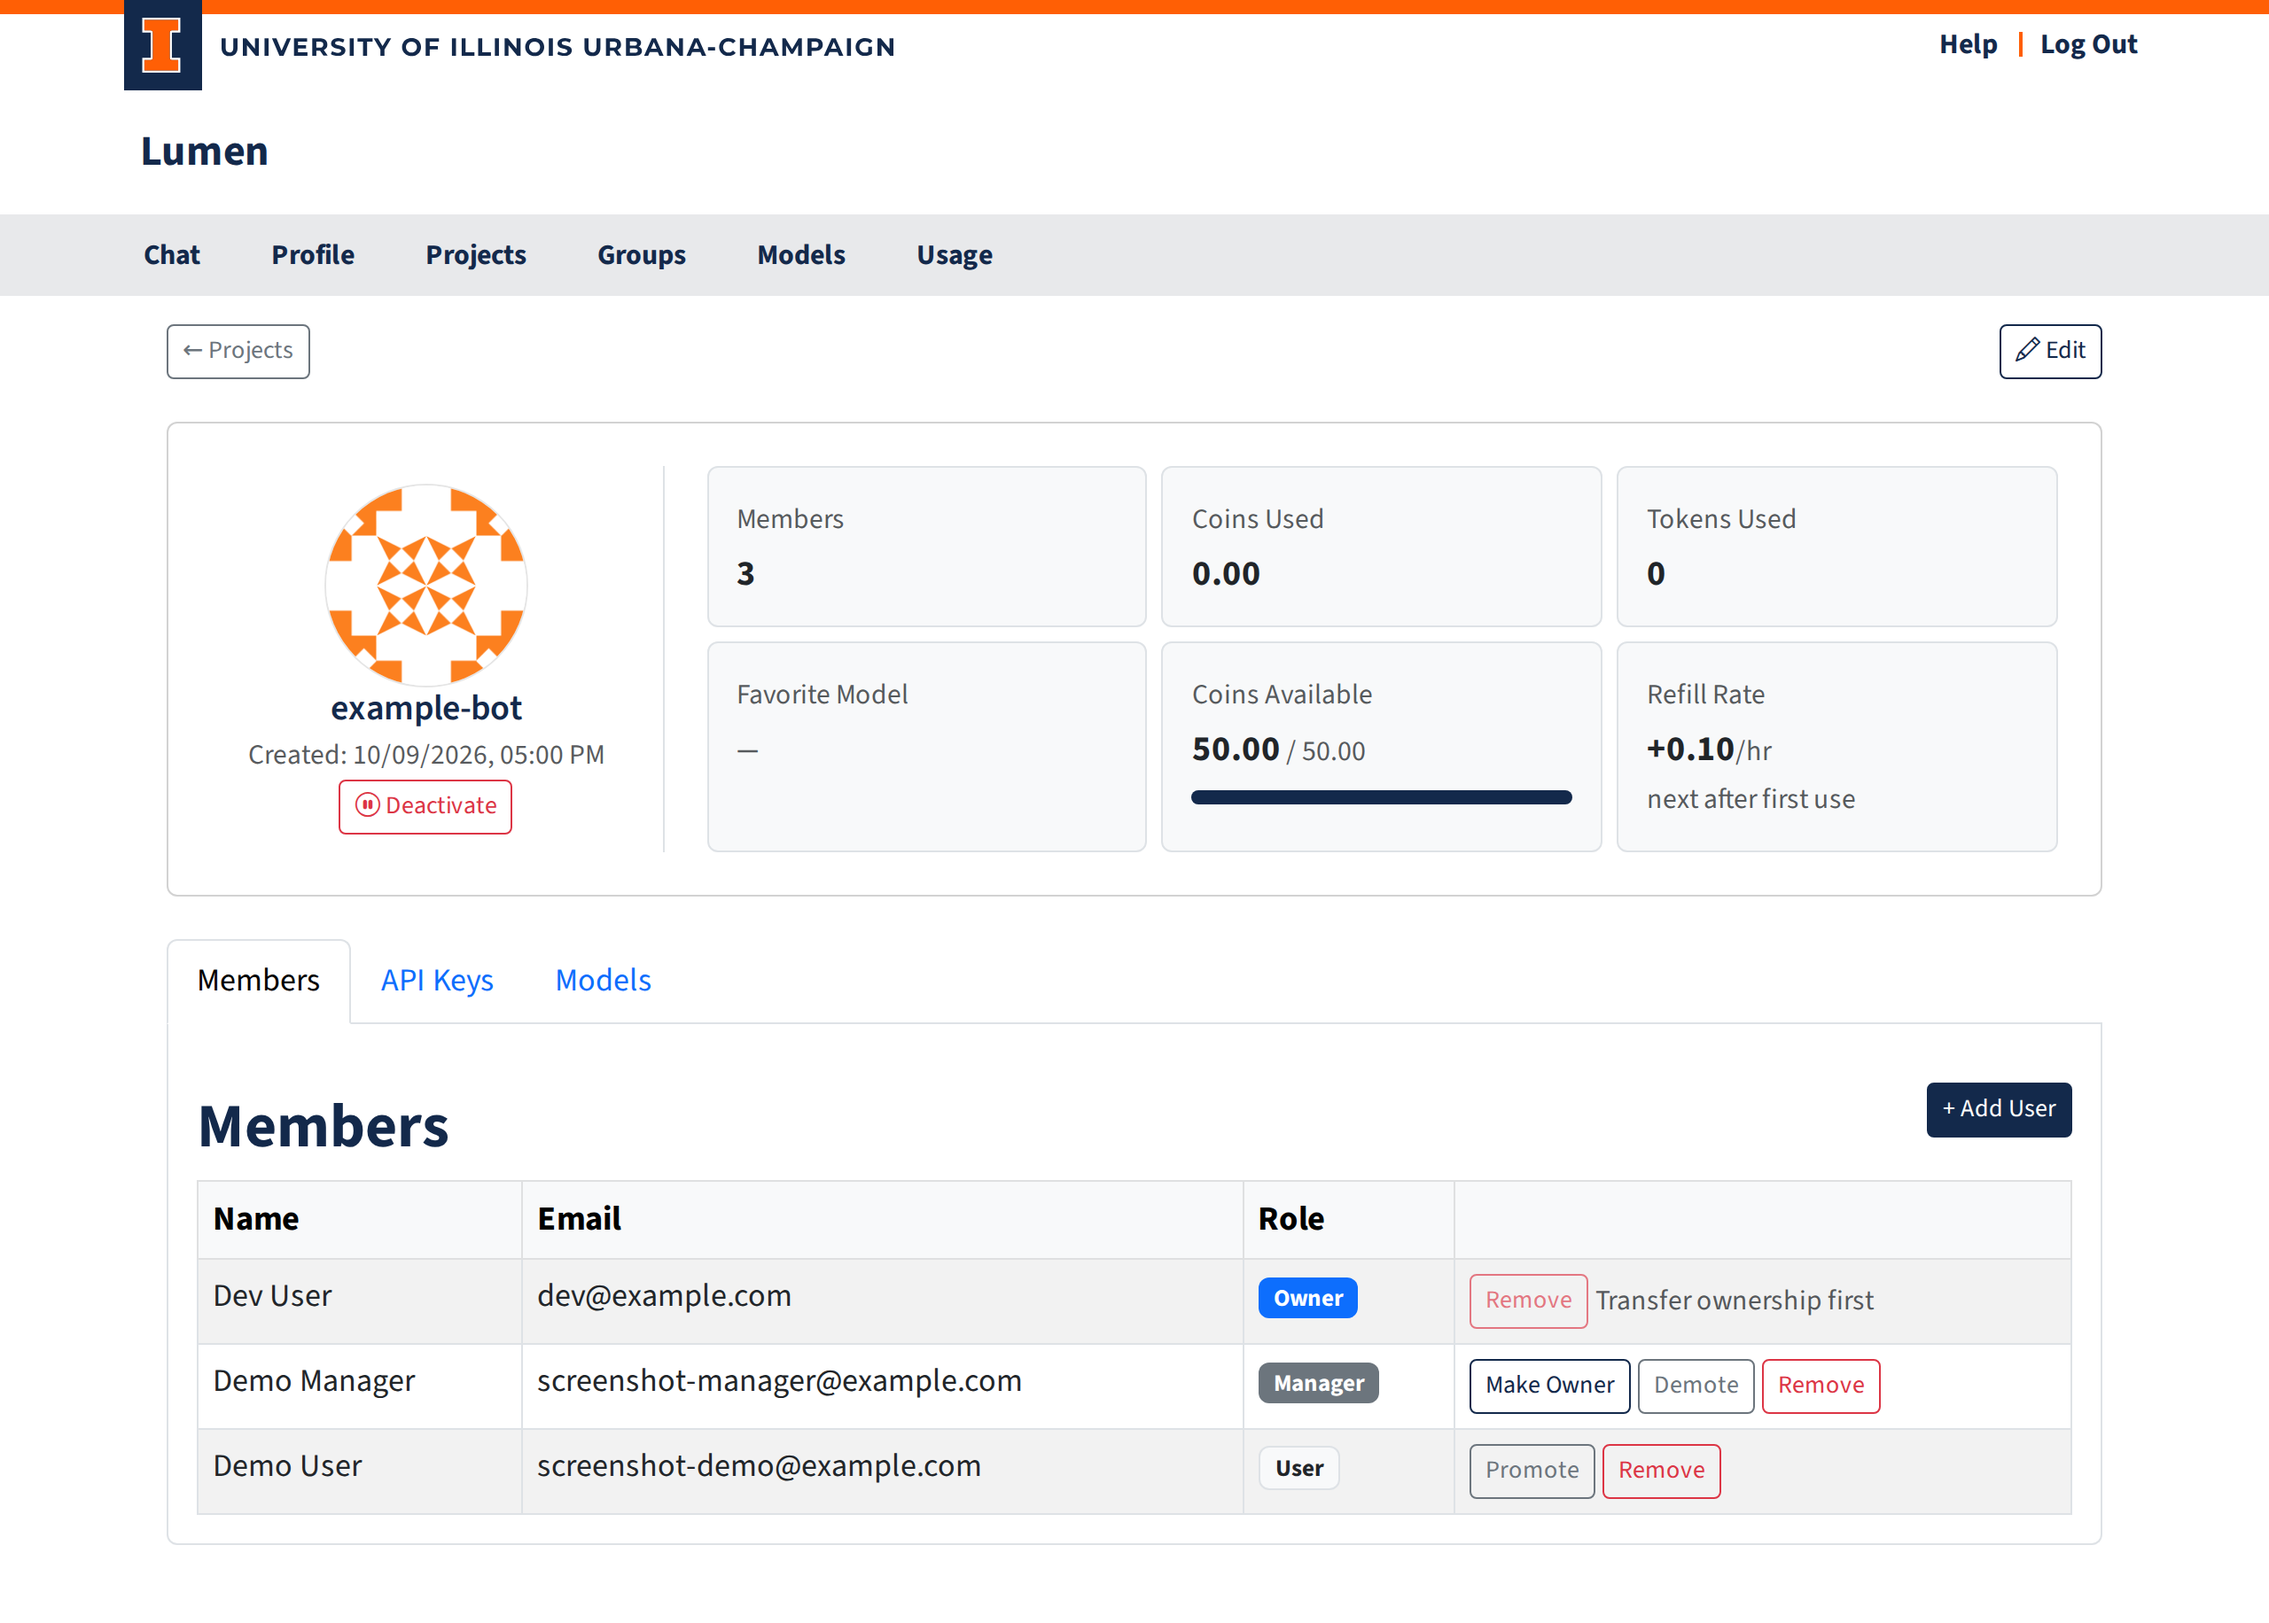
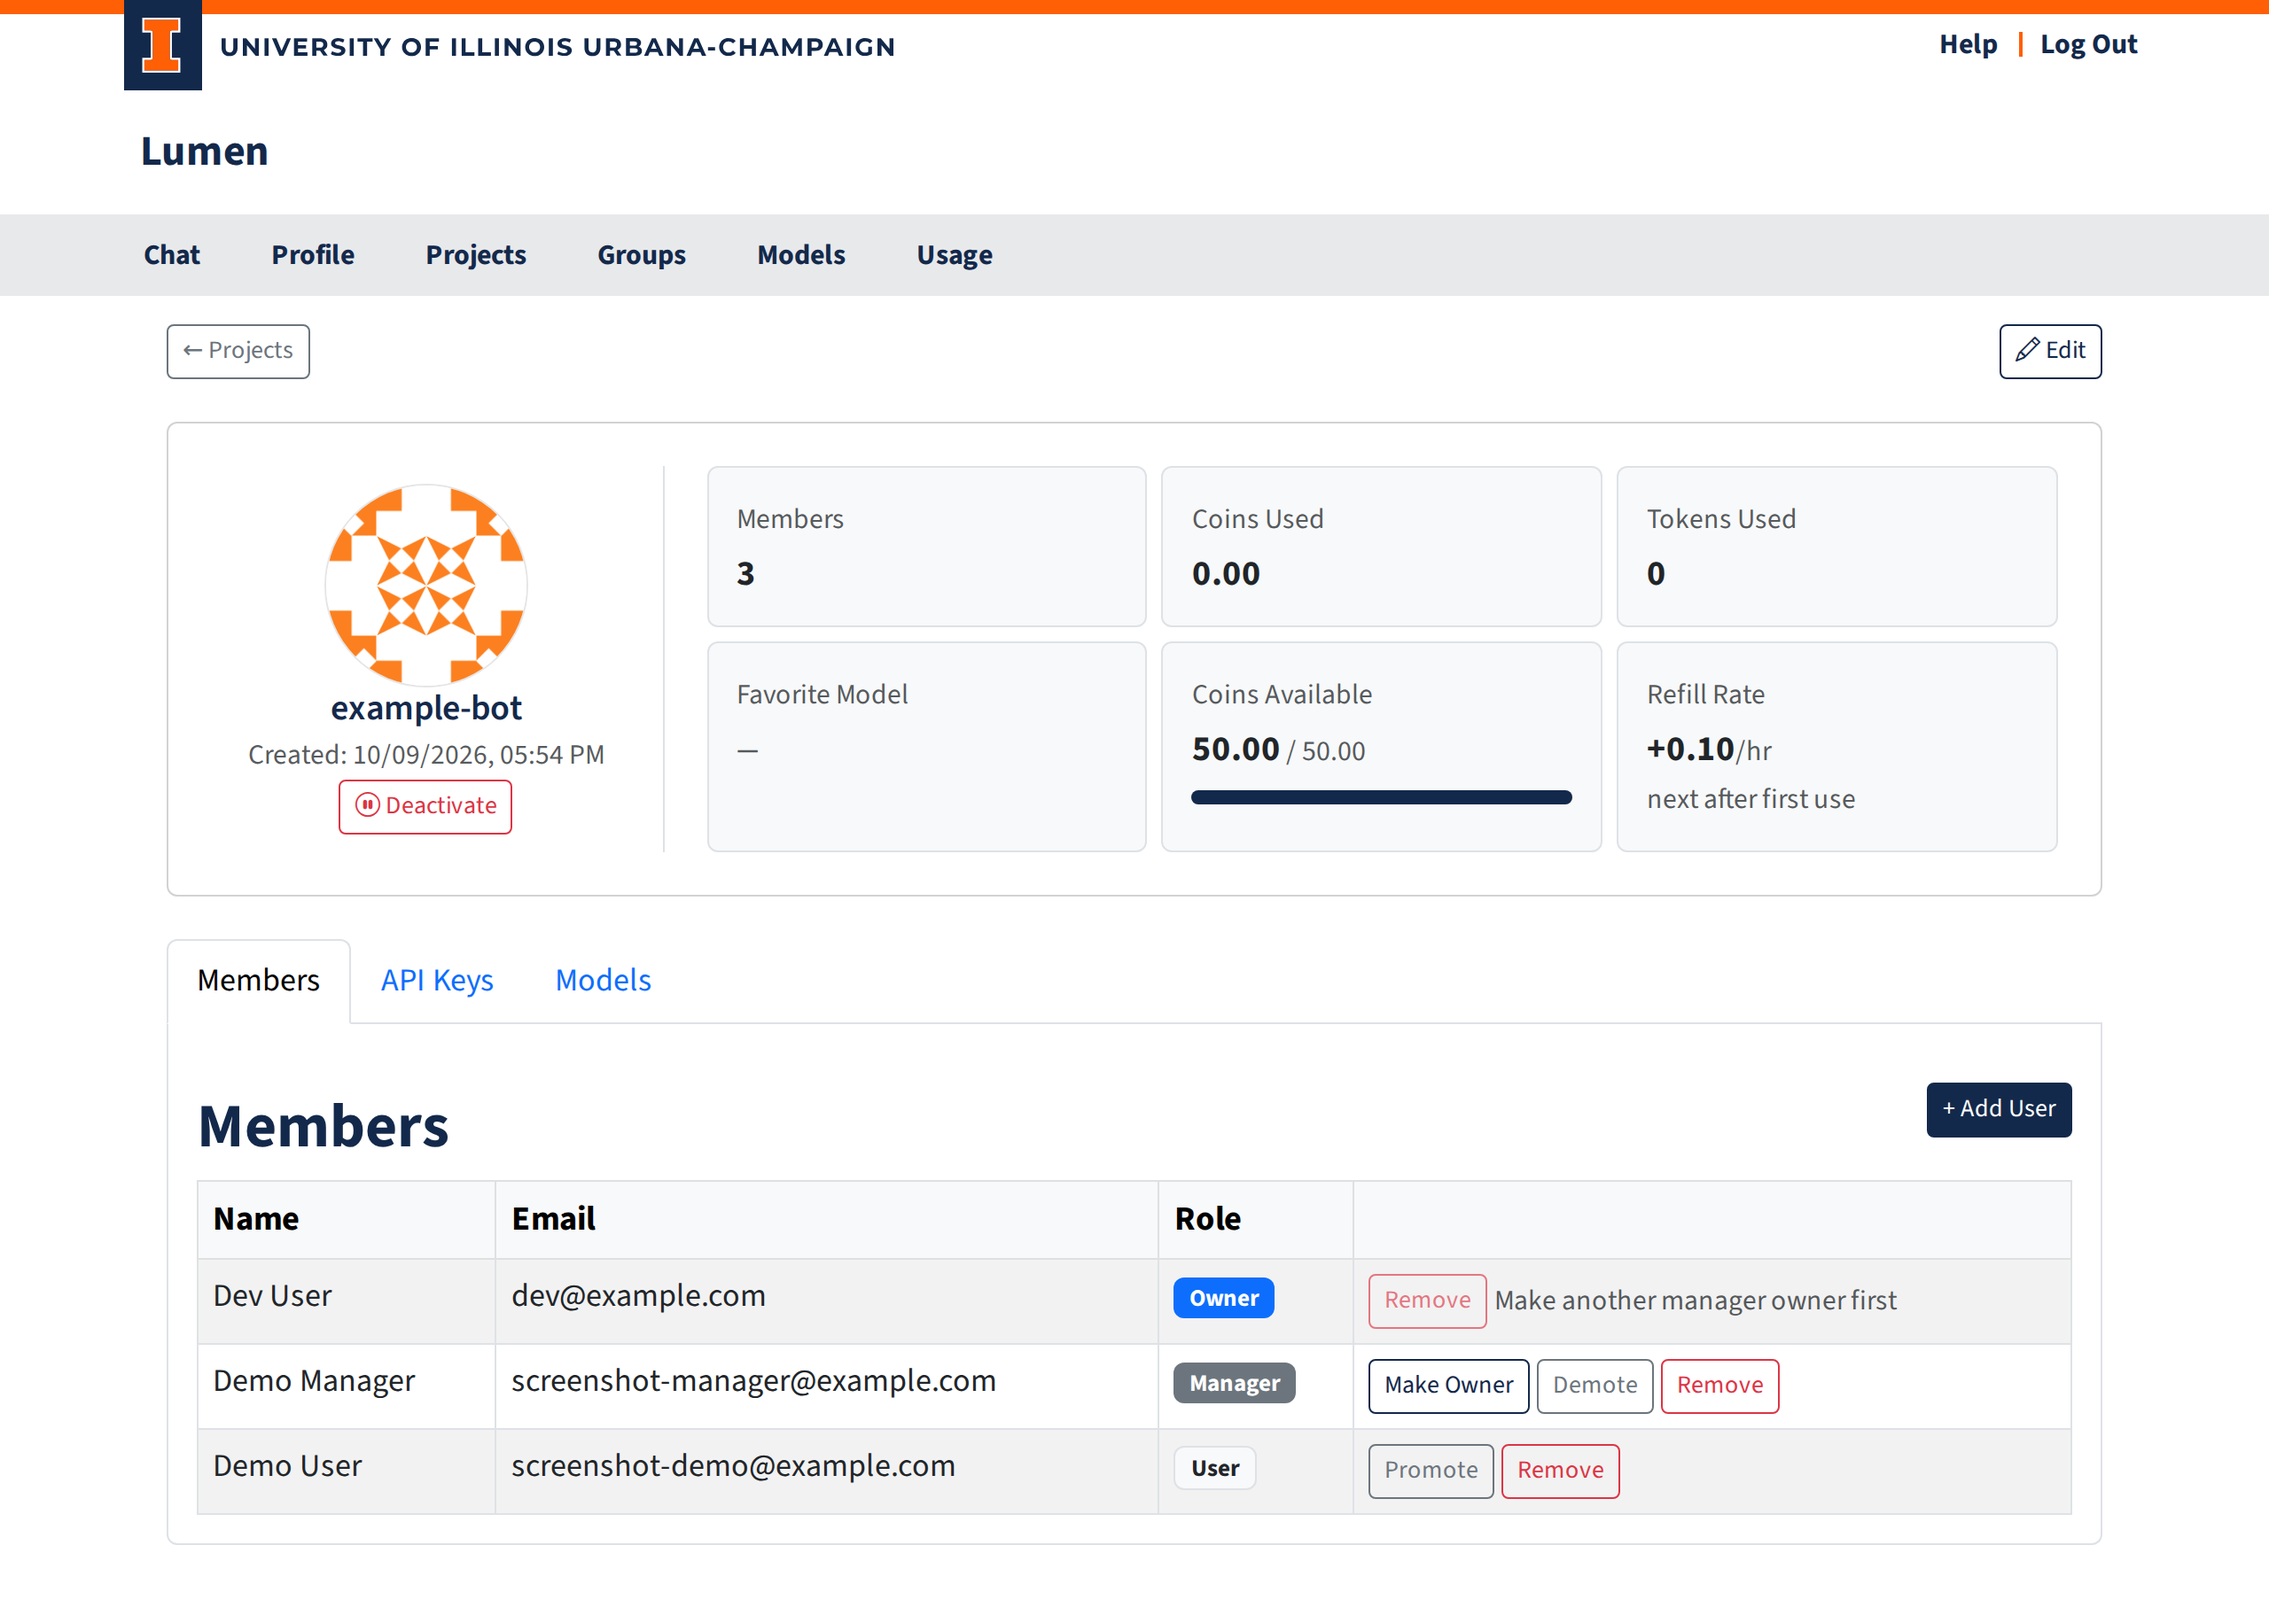
RK-15 Owner row: 'Make another manager owner first' for owner and admins
The owner and admins see the owner's disabled Remove with the visible
hint 'Make another manager owner first' (aria-label 'Cannot remove
yourself as owner' for the owner, 'Cannot remove owner {name}' for
admins). Managers get an empty action cell on the owner row. Drop the
'Transfer ownership first' text, update the docs and screenshot.

diff --git a/lumen/templates/project_detail.html b/lumen/templates/project_detail.html
@@ -173,10 +173,12 @@
         <td>
           <div class="d-flex gap-1 align-items-center">
             {% if role == "owner" %}
+            {% if can_manage %}
             <button class="btn btn-sm btn-outline-danger" disabled
-                    aria-label="Cannot remove owner {{ member.name }}"
+                    aria-label="{{ 'Cannot remove yourself as owner' if caller_role == 'owner' else 'Cannot remove owner ' ~ member.name }}"
                     aria-describedby="owner-remove-reason">Remove</button>
-            <span id="owner-remove-reason" class="text-muted small">Transfer ownership first</span>
+            <span id="owner-remove-reason" class="text-muted small">Make another manager owner first</span>
+            {% endif %}
             {% elif role == "manager" and can_manage %}
             <button class="btn btn-sm btn-outline-primary"
                     onclick='makeOwner({{ member.id }}, {{ member.name | tojson }})'

diff --git a/tests/routes/test_projects_routes.py b/tests/routes/test_projects_routes.py
@@ -1887,9 +1887,9 @@ def test_members_tab_owner_sees_all_actions(client, mixed_members):
         "Make Second User owner", "Demote Second User to user", "Remove Second User",
         "Promote Third User to manager", "Remove Third User",
     }
-    owner_remove = soup.find("button", attrs={"aria-label": "Cannot remove owner Owner of test-svc"})
+    owner_remove = soup.find("button", attrs={"aria-label": "Cannot remove yourself as owner"})
     assert owner_remove.has_attr("disabled")
-    assert soup.find(id=owner_remove["aria-describedby"]).get_text(strip=True) == "Transfer ownership first"
+    assert soup.find(id=owner_remove["aria-describedby"]).get_text(strip=True) == "Make another manager owner first"
 
 
 def test_members_tab_admin_sees_owner_actions(admin_client, mixed_members):
@@ -2048,3 +2048,31 @@ def test_user_sees_self_owner_and_managers_only(app, client, mixed_members, seco
     soup = _members_page(_login_as(client, second_user["id"]), mixed_members["id"])
     assert _member_names(soup) == ["Owner of test-svc", "Second User", "Other User", "Third User"]
     assert soup.find("div", string="Members").find_next_sibling("div").get_text(strip=True) == "4"
+
+
+def _owner_row(soup):
+    return next(tr for tr in soup.select("#pane-members tbody tr")
+                if tr.select("td")[2].get_text(strip=True) == "Owner")
+
+
+def test_owner_row_remove_cell_per_role(client, admin_client, mixed_members, second_user):
+    sid = mixed_members["id"]
+    # admin_client and client are the same test client, so check the admin view first.
+    for login, label in (
+        (lambda: admin_client, "Cannot remove owner Owner of test-svc"),
+        (lambda: _login_as(client, mixed_members["owner_id"]), "Cannot remove yourself as owner"),
+    ):
+        viewer = login()
+        page = viewer.get(f"/projects/{sid}").get_data(as_text=True)
+        assert "Transfer ownership first" not in page
+        soup = _members_page(viewer, sid)
+        btn = _owner_row(soup).find("button")
+        assert btn.has_attr("disabled") and btn["aria-label"] == label
+        assert soup.find(id=btn["aria-describedby"]).get_text(strip=True) == "Make another manager owner first"
+
+    manager = _login_as(client, second_user["id"])
+    page = manager.get(f"/projects/{sid}").get_data(as_text=True)
+    assert "Transfer ownership first" not in page
+    assert "Make another manager owner first" not in page
+    soup = _members_page(manager, sid)
+    assert _owner_row(soup).find("button") is None

diff --git a/docs/projects/projects-detail.md b/docs/projects/projects-detail.md
@@ -43,7 +43,7 @@ The list shows the owner first, then managers, then users, sorted A–Z by name 
 
 ### Removing a Member
 
-Click **Remove** next to the member. Managers can remove users; only the owner or an admin can remove managers. The owner's **Remove** button is always disabled, with a note to transfer ownership first.
+Click **Remove** next to the member. Managers can remove users; only the owner or an admin can remove managers. The owner can't be removed: the owner and admins see the owner's **Remove** button disabled, with the hint "Make another manager owner first". Managers see no button on the owner's row.
 
 ### Promoting and Demoting (owner or admin)
 
